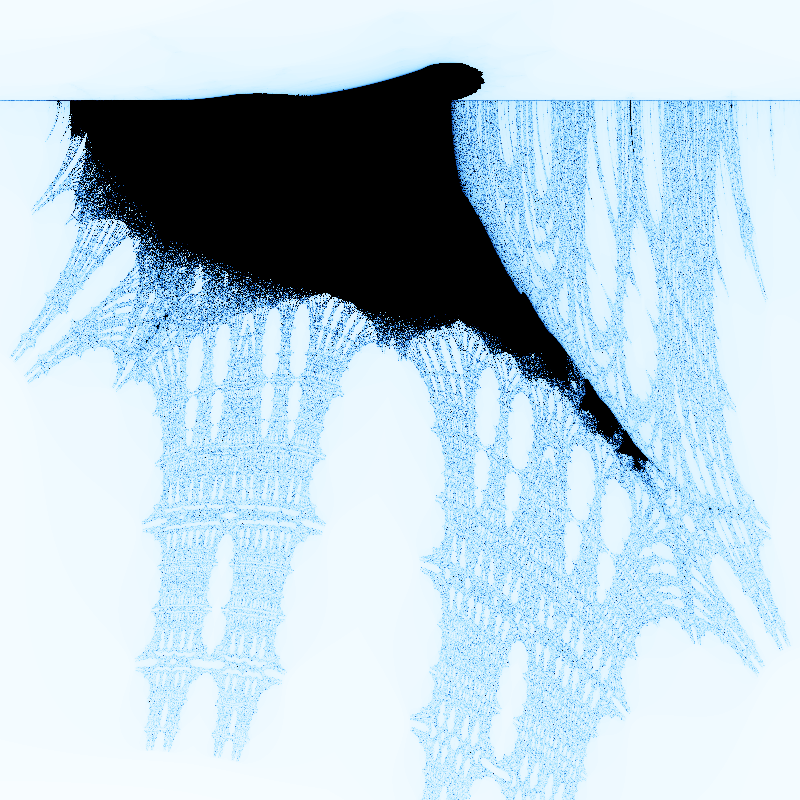
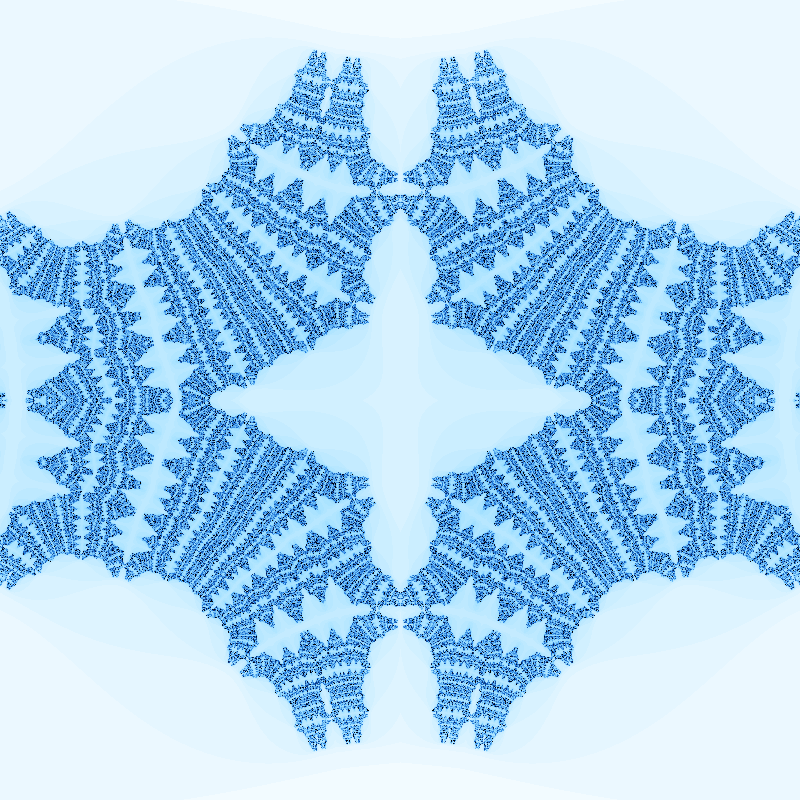
fix du main pour un meilleur affichage

diff --git a/src/main/java/fr/univartois/butinfo/fractalens/application/Main.java b/src/main/java/fr/univartois/butinfo/fractalens/application/Main.java
@@ -2,6 +2,7 @@ package fr.univartois.butinfo.fractalens.application;
 
 import fr.univartois.butinfo.fractalens.complex.Complex;
 import fr.univartois.butinfo.fractalens.complex.IComplex;
+import fr.univartois.butinfo.fractalens.complex.sequence.ComplexSequenceType;
 import fr.univartois.butinfo.fractalens.complex.sequence.ComplexSequences;
 import fr.univartois.butinfo.fractalens.generator.FractalGeneratorBuilder;
 import fr.univartois.butinfo.fractalens.generator.IFractalGenerator;
@@ -46,11 +47,11 @@ public class Main {
             new Color(10, 30, 90), Color.BLACK));
 
     IPalette forestPalette = new FixedPalette(List.of(
-            new Color(230, 255, 200), new Color(140, 210, 90), new Color(40, 140, 60),
-            new Color(10, 60, 30), Color.BLACK));
+            new Color(5, 20, 10), new Color(20, 90, 40), new Color(120, 200, 80),
+            new Color(230, 255, 200), Color.BLACK));
 
     IFractalGenerator mandelbrot = new FractalGeneratorBuilder()
-            .usingSequence(ComplexSequences::mandelbrot)
+            .usingSequence(ComplexSequenceType.MANDELBROT)
             .withSize(800, 600)
             .zoomedBy(0.001)
             .centeredAt(new Complex(-0.75, 0))
@@ -61,12 +62,12 @@ public class Main {
     mandelbrot.generateImage();
     mandelbrot.saveImage();
 
-    IComplex burningShipConstant = new Complex(-0.4, 0.6);
+    IComplex burningShipConstant = new Complex(-1.6, -0.1);
     IFractalGenerator burningShip = new FractalGeneratorBuilder()
             .usingSequence((z0, max) -> ComplexSequences.burningShip(z0, max, burningShipConstant))
             .withSize(800, 800)
-            .zoomedBy(0.0001)
-            .centeredAt(new Complex(-1.755, -0.03))
+            .zoomedBy(0.0015)
+            .centeredAt(new Complex(0, 0))
             .withMaxIterations(64)
             .coloredWith(icePalette)
             .savedAs(secondOutput)
@@ -74,13 +75,14 @@ public class Main {
     burningShip.generateImage();
     burningShip.saveImage();
 
-    IComplex cubicConstant = new Complex(0.3, 0.5);
+
+    IComplex cubicConstant = new Complex(-0.2, 0.75);
     IFractalGenerator cubicJulia = new FractalGeneratorBuilder()
             .usingSequence((z0, max) -> ComplexSequences.cubicJulia(z0, max, cubicConstant))
             .withSize(800, 800)
-            .zoomedBy(0.003)
-            .centeredAt(new Complex(0, 0))
-            .withMaxIterations(150)
+            .zoomedBy(0.0032)
+            .centeredAt(new Complex(-0.25, 0))
+            .withMaxIterations(40)
             .coloredWith(forestPalette)
             .savedAs(thirdOutput)
             .build();
